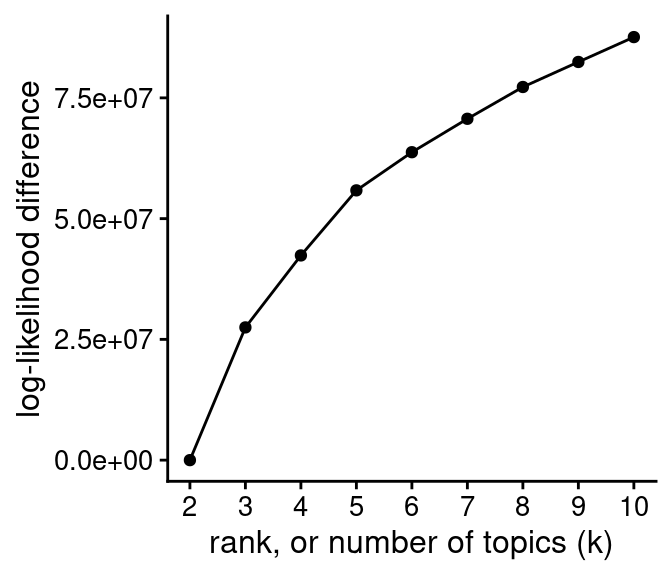
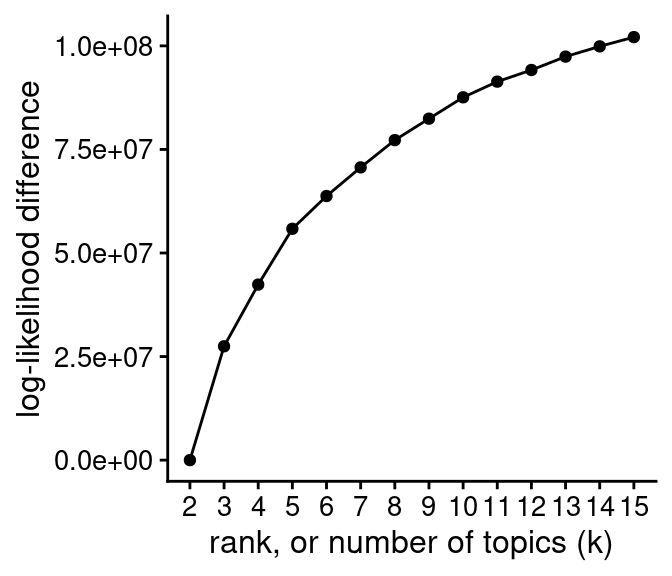
Build site.

diff --git a/docs/assess_fits_Cusanovich2018.html b/docs/assess_fits_Cusanovich2018.html
@@ -397,7 +397,7 @@ div.tocify {
 <div class="tab-content">
 <div id="summary" class="tab-pane fade in active">
 <p>
-<strong>Last updated:</strong> 2020-09-10
+<strong>Last updated:</strong> 2020-09-30
 </p>
 <p>
 <strong>Checks:</strong> <span class="glyphicon glyphicon-ok text-success" aria-hidden="true"></span> 7 <span class="glyphicon glyphicon-exclamation-sign text-danger" aria-hidden="true"></span> 0
@@ -488,16 +488,16 @@ This reproducible <a href="http://rmarkdown.rstudio.com">R Markdown</a> analysis
 <div class="panel panel-default">
 <div class="panel-heading">
 <p class="panel-title">
-<a data-toggle="collapse" data-parent="#workflowr-checks" href="#strongRepositoryversionstrongahrefhttpsgithubcomstephenslabscATACseqtopicstree6d5b957f63ca07408aa03483c78c7e222d36ec45targetblank6d5b957a"> <span class="glyphicon glyphicon-ok text-success" aria-hidden="true"></span> <strong>Repository version:</strong> <a href="https://github.com/stephenslab/scATACseq-topics/tree/6d5b957f63ca07408aa03483c78c7e222d36ec45" target="_blank">6d5b957</a> </a>
+<a data-toggle="collapse" data-parent="#workflowr-checks" href="#strongRepositoryversionstrongahrefhttpsgithubcomstephenslabscATACseqtopicstree06bd689b0f861c4f067a399174a0f527b3b48b22targetblank06bd689a"> <span class="glyphicon glyphicon-ok text-success" aria-hidden="true"></span> <strong>Repository version:</strong> <a href="https://github.com/stephenslab/scATACseq-topics/tree/06bd689b0f861c4f067a399174a0f527b3b48b22" target="_blank">06bd689</a> </a>
 </p>
 </div>
[2 lines of base64/hex data omitted]
 <div class="panel-body">
 <p>
 Great! You are using Git for version control. Tracking code development and connecting the code version to the results is critical for reproducibility.
 </p>
 <p>
-The results in this page were generated with repository version <a href="https://github.com/stephenslab/scATACseq-topics/tree/6d5b957f63ca07408aa03483c78c7e222d36ec45" target="_blank">6d5b957</a>. See the <em>Past versions</em> tab to see a history of the changes made to the R Markdown and HTML files.
+The results in this page were generated with repository version <a href="https://github.com/stephenslab/scATACseq-topics/tree/06bd689b0f861c4f067a399174a0f527b3b48b22" target="_blank">06bd689</a>. See the <em>Past versions</em> tab to see a history of the changes made to the R Markdown and HTML files.
 </p>
 <p>
 Note that you need to be careful to ensure that all relevant files for the analysis have been committed to Git prior to generating the results (you can use <code>wflow_publish</code> or <code>wflow_git_commit</code>). workflowr only checks the R Markdown file, but you know if there are other scripts or data files that it depends on. Below is the status of the Git repository when the results were generated:
@@ -507,14 +507,7 @@ Ignored files:
     Ignored:    .Rhistory
     Ignored:    .Rproj.user/
 
-Untracked files:
-    Untracked:  analysis/plots_Cusanovich2018.Rmd
-    Untracked:  analysis/plots_Lareau2019_bonemarrow.Rmd
-    Untracked:  code/plots.R
-
 Unstaged changes:
-    Modified:   analysis/index.Rmd
-    Modified:   code/functions_for_assessing_fits.R
     Modified:   scripts/fit_all_models_Cusanovich2018.sh
 
 </code></pre>
@@ -554,6 +547,40 @@ Message
 </tr>
 </thead>
 <tbody>
+<tr>
+<td>
+Rmd
+</td>
+<td>
+<a href="https://github.com/stephenslab/scATACseq-topics/blob/06bd689b0f861c4f067a399174a0f527b3b48b22/analysis/assess_fits_Cusanovich2018.Rmd" target="_blank">06bd689</a>
+</td>
+<td>
+kevinlkx
+</td>
+<td>
+2020-09-30
+</td>
+<td>
+add results with k = 11:15
+</td>
+</tr>
+<tr>
+<td>
+html
+</td>
+<td>
+<a href="https://rawcdn.githack.com/stephenslab/scATACseq-topics/bdbac45be3007202fb412f401a134762f97b99a9/docs/assess_fits_Cusanovich2018.html" target="_blank">bdbac45</a>
+</td>
+<td>
+kevinlkx
+</td>
+<td>
+2020-09-10
+</td>
+<td>
+Build site.
+</td>
+</tr>
 <tr>
 <td>
 html
@@ -647,45 +674,6 @@ kevinlkx
 </div>
 <p>As expected, the likelihood consistently improves as the rank, <span class="math inline">\(k\)</span>, is increased.</p>
 <p>The next set of plots shows the improvement in the fit over time, for all choices of <span class="math inline">\(k\)</span>, and for each of the three optimization methods (EM, CCD, SCD), with and without the extrapolation scheme. The quality of the fit is measured by the log-likelihood relative to the best log-likelihood that was identified among all methods compared.</p>
-<pre class="r"><code>create_progress_plots(dat, fits, x=&quot;timing&quot;, y=&quot;loglik&quot;, numiter.prefit=200)</code></pre>
-<p><img src="figure/assess_fits_Cusanovich2018.Rmd/plot-loglik-timing-1.png" width="864" style="display: block; margin: auto;" /></p>
-<p>
-<button type="button" class="btn btn-default btn-xs btn-workflowr btn-workflowr-fig" data-toggle="collapse" data-target="#fig-plot-loglik-timing-1">
-Past versions of plot-loglik-timing-1.png
-</button>
-</p>
-<div id="fig-plot-loglik-timing-1" class="collapse">
-<div class="table-responsive">
-<table class="table table-condensed table-hover">
-<thead>
-<tr>
-<th>
-Version
-</th>
-<th>
-Author
-</th>
-<th>
-Date
-</th>
-</tr>
-</thead>
-<tbody>
-<tr>
-<td>
-<a href="https://github.com/stephenslab/scATACseq-topics/blob/6d06f2a52dd4f2f9945dca0a4590eb66f3d546d0/docs/figure/assess_fits_Cusanovich2018.Rmd/plot-loglik-timing-1.png" target="_blank">6d06f2a</a>
-</td>
-<td>
-kevinlkx
-</td>
-<td>
-2020-09-09
-</td>
-</tr>
-</tbody>
-</table>
-</div>
-</div>
 <pre class="r"><code>create_progress_plots(dat, fits, x=&quot;iter&quot;, y=&quot;loglik&quot;, numiter.prefit=200)</code></pre>
 <p><img src="figure/assess_fits_Cusanovich2018.Rmd/plot-loglik-iter-1.png" width="864" style="display: block; margin: auto;" /></p>
 <p>
@@ -726,45 +714,6 @@ kevinlkx
 </div>
 </div>
 <p>The last set of plots shows the evolution of the KKT residuals over time; the KKT residuals should vanish near a stationary point of the log-likelihood, so looking at the largest KKT residual can be used to assess how close we are to a solution. Note that, unlike the log-likelihood, the KKT residuals are not expected to decrease monotonically over time.</p>
-<pre class="r"><code>create_progress_plots(dat, fits, x=&quot;timing&quot;, y=&quot;res&quot;, numiter.prefit=200)</code></pre>
-<p><img src="figure/assess_fits_Cusanovich2018.Rmd/plot-res-timing-1.png" width="864" style="display: block; margin: auto;" /></p>
-<p>
-<button type="button" class="btn btn-default btn-xs btn-workflowr btn-workflowr-fig" data-toggle="collapse" data-target="#fig-plot-res-timing-1">
-Past versions of plot-res-timing-1.png
-</button>
-</p>
-<div id="fig-plot-res-timing-1" class="collapse">
-<div class="table-responsive">
-<table class="table table-condensed table-hover">
-<thead>
-<tr>
-<th>
-Version
-</th>
-<th>
-Author
-</th>
-<th>
-Date
-</th>
-</tr>
-</thead>
-<tbody>
-<tr>
-<td>
-<a href="https://github.com/stephenslab/scATACseq-topics/blob/6d06f2a52dd4f2f9945dca0a4590eb66f3d546d0/docs/figure/assess_fits_Cusanovich2018.Rmd/plot-res-timing-1.png" target="_blank">6d06f2a</a>
-</td>
-<td>
-kevinlkx
-</td>
-<td>
-2020-09-09
-</td>
-</tr>
-</tbody>
-</table>
-</div>
-</div>
 <pre class="r"><code>create_progress_plots(dat, fits, x=&quot;iter&quot;, y=&quot;res&quot;, numiter.prefit=200)</code></pre>
 <p><img src="figure/assess_fits_Cusanovich2018.Rmd/plot-res-iter-1.png" width="864" style="display: block; margin: auto;" /></p>
 <p>
@@ -831,7 +780,7 @@ kevinlkx
 # [1] stats     graphics  grDevices utils     datasets  methods   base     
 # 
 # other attached packages:
-# [1] cowplot_1.0.0      ggplot2_3.3.0      fastTopics_0.3-163 workflowr_1.6.2   
+# [1] cowplot_1.0.0      ggplot2_3.3.0      fastTopics_0.3-163
 # 
 # loaded via a namespace (and not attached):
 #  [1] ggrepel_0.8.2      Rcpp_1.0.4.6       lattice_0.20-38    tidyr_0.8.3       
@@ -843,14 +792,15 @@ kevinlkx
 # [25] labeling_0.3       Rtsne_0.15         stringr_1.4.0      htmlwidgets_1.5.1 
 # [29] munsell_0.5.0      compiler_3.5.1     httpuv_1.5.3.1     xfun_0.14         
 # [33] pkgconfig_2.0.3    mcmc_0.9-7         htmltools_0.4.0    tidyselect_0.2.5  
-# [37] tibble_3.0.1       quadprog_1.5-5     viridisLite_0.3.0  crayon_1.3.4      
-# [41] dplyr_0.8.5        withr_2.1.2        later_1.0.0        MASS_7.3-51.6     
-# [45] grid_3.5.1         jsonlite_1.6       gtable_0.3.0       lifecycle_0.2.0   
-# [49] git2r_0.27.1       magrittr_1.5       scales_1.1.1       RcppParallel_4.4.3
-# [53] stringi_1.4.6      farver_2.0.3       fs_1.3.1           promises_1.1.0    
-# [57] ellipsis_0.3.1     vctrs_0.3.0        tools_3.5.1        glue_1.4.1        
-# [61] purrr_0.3.4        hms_0.4.2          yaml_2.2.0         colorspace_1.4-1  
-# [65] plotly_4.8.0       knitr_1.28         quantreg_5.36      MCMCpack_1.4-4</code></pre>
+# [37] tibble_3.0.1       workflowr_1.6.2    quadprog_1.5-5     viridisLite_0.3.0 
+# [41] crayon_1.3.4       dplyr_0.8.5        withr_2.1.2        later_1.0.0       
+# [45] MASS_7.3-51.6      grid_3.5.1         jsonlite_1.6       gtable_0.3.0      
+# [49] lifecycle_0.2.0    git2r_0.27.1       magrittr_1.5       scales_1.1.1      
+# [53] RcppParallel_4.4.3 stringi_1.4.6      farver_2.0.3       fs_1.3.1          
+# [57] promises_1.1.0     ellipsis_0.3.1     vctrs_0.3.0        tools_3.5.1       
+# [61] glue_1.4.1         purrr_0.3.4        hms_0.4.2          yaml_2.2.0        
+# [65] colorspace_1.4-1   plotly_4.8.0       knitr_1.28         quantreg_5.36     
+# [69] MCMCpack_1.4-4</code></pre>
 </div>
 
 

diff --git a/docs/site_libs/navigation-1.1/codefolding.js b/docs/site_libs/navigation-1.1/codefolding.js
@@ -17,13 +17,13 @@ window.initializeCodeFolding = function(show) {
   var currentIndex = 1;
 
   // select all R code blocks
-  var rCodeBlocks = $('pre.r, pre.python, pre.bash, pre.sql, pre.cpp, pre.stan, pre.julia, pre.foldable');
+  var rCodeBlocks = $('pre.r, pre.python, pre.bash, pre.sql, pre.cpp, pre.stan, pre.julia');
   rCodeBlocks.each(function() {
 
     // create a collapsable div to wrap the code in
     var div = $('<div class="collapse r-code-collapse"></div>');
-    show = (show || $(this).hasClass('fold-show')) && !$(this).hasClass('fold-hide');
-    if (show) div.addClass('in');
+    if (show || $(this)[0].classList.contains('fold-show'))
+      div.addClass('in');
     var id = 'rcode-643E0F36' + currentIndex++;
     div.attr('id', id);
     $(this).before(div);
